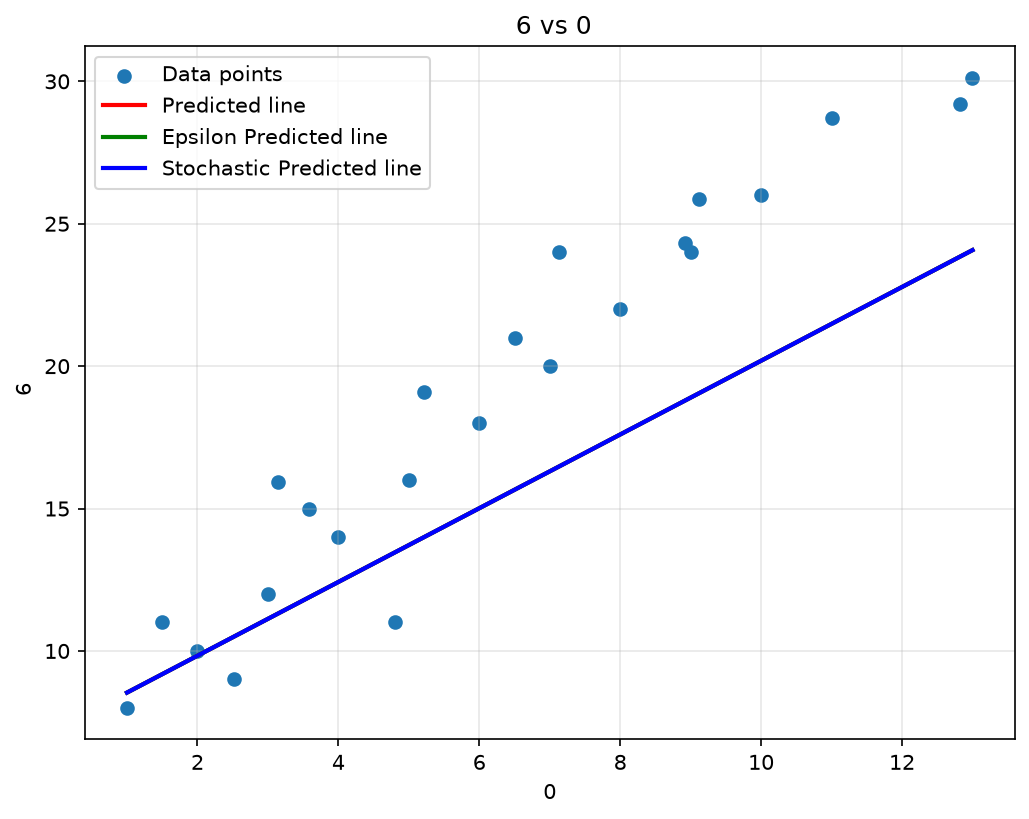
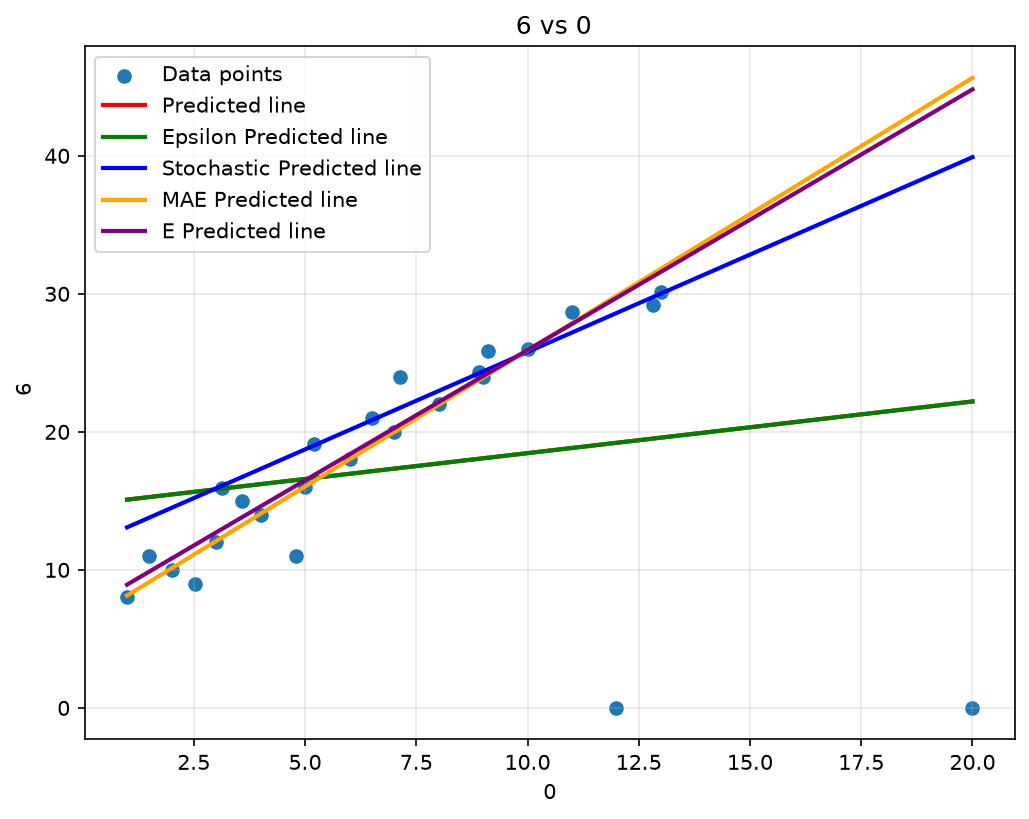
im so sorry this is so late

diff --git a/MachineLearning/e_descent.py b/MachineLearning/e_descent.py
@@ -1,0 +1,189 @@
+# import csv
+# import numpy as np
+
+# CSV_PATH = ".\\MachineLearning\\data.csv"
+# X_COLUMN = None
+# Y_COLUMN = None
+# LEARNING_RATE = 0.01
+# EPSILON = 1e-6
+# MAX_ITERATIONS = 2_000_000
+
+# CONST_C = 1e-6   # <-- the "c" in c - log(exp(-(y-yhat)^2) + c)
+
+# THETA_PATH = ".\\MachineLearning\\theta_e.npy"
+# COST_HISTORY_PATH = ".\\MachineLearning\\cost_history.npy"
+
+# # --- Load data ---
+# x_vals = []
+# y_vals = []
+
+# with open(CSV_PATH, 'r') as file:
+#     reader = csv.reader(file)
+#     header = next(reader)
+
+#     x_idx = 0 if X_COLUMN is None else (
+#         int(X_COLUMN) if X_COLUMN.isdigit() else header.index(X_COLUMN)
+#     )
+#     y_idx = 1 if Y_COLUMN is None else (
+#         int(Y_COLUMN) if Y_COLUMN.isdigit() else header.index(Y_COLUMN)
+#     )
+
+#     for row in reader:
+#         if not row:
+#             continue
+#         x_vals.append(float(row[x_idx]))
+#         y_vals.append(float(row[y_idx]))
+
+# x = np.array(x_vals)
+# y = np.array(y_vals)
+# n = len(x)
+# print("Total data points:", n)
+
+# # --- Gradient descent ---
+# theta = np.array([0.0, 0.0])
+# cost_history = []
+
+# iteration = 0
+# while iteration < MAX_ITERATIONS:
+#     predictions = theta[0] + theta[1] * x
+#     errors = y - predictions          # e = y - yhat
+#     exp_term = np.exp(-(errors ** 2)) # exp(-(y-yhat)^2)
+
+#     # Cost: c - log(exp(-(y-yhat)^2) + c), averaged over samples
+#     per_sample_cost = CONST_C - np.log(exp_term + CONST_C)
+#     cost = np.mean(per_sample_cost)
+#     cost_history.append(cost)
+
+#     # Gradient: dL/dtheta = -2*e*exp(-e^2) / (exp(-e^2) + c)
+#     common_factor = -2 * errors * exp_term / (exp_term + CONST_C)
+#     grad_intercept = np.mean(common_factor)
+#     grad_slope = np.mean(common_factor * x)
+#     gradient = np.array([grad_intercept, grad_slope])
+
+#     theta = theta - LEARNING_RATE * gradient
+
+#     if iteration % 100 == 0:
+#         print(f"Iteration {iteration}: Cost = {cost:.6f}, theta = {theta}, |grad| = {np.linalg.norm(gradient):.8f}")
+
+#     if np.linalg.norm(gradient) < EPSILON:
+#         print(f"\nConverged after {iteration} iterations (|grad| < {EPSILON}).")
+#         break
+
+#     iteration += 1
+# else:
+#     print(f"\nStopped after reaching MAX_ITERATIONS = {MAX_ITERATIONS} without full convergence.")
+
+# np.save(THETA_PATH, theta)
+# np.save(COST_HISTORY_PATH, np.array(cost_history))
+# print(f"Saved theta to {THETA_PATH}: intercept={theta[0]:.6f}, slope={theta[1]:.6f}")
+# print(f"Saved cost history to {COST_HISTORY_PATH} ({len(cost_history)} iterations)")
+
+# print("\nFinal parameters:")
+# print(f"Intercept: {theta[0]:.6f}")
+# print(f"Slope:     {theta[1]:.6f}")
+
+import csv
+import numpy as np
+
+CSV_PATH = ".\\MachineLearning\\data.csv"
+X_COLUMN = None
+Y_COLUMN = None
+LEARNING_RATE = 0.01
+EPSILON = 1e-6
+MAX_ITERATIONS = 1000
+
+CONST_C = 0.1   # <-- raised from 1e-6; keeps exp(-e^2)+c from being ~pure numerical zero
+
+THETA_PATH = ".\\MachineLearning\\theta_e.npy"
+COST_HISTORY_PATH = ".\\MachineLearning\\cost_history.npy"
+
+# --- Load data ---
+x_vals = []
+y_vals = []
+
+with open(CSV_PATH, 'r') as file:
+    reader = csv.reader(file)
+    header = next(reader)
+
+    x_idx = 0 if X_COLUMN is None else (
+        int(X_COLUMN) if X_COLUMN.isdigit() else header.index(X_COLUMN)
+    )
+    y_idx = 1 if Y_COLUMN is None else (
+        int(Y_COLUMN) if Y_COLUMN.isdigit() else header.index(Y_COLUMN)
+    )
+
+    for row in reader:
+        if not row:
+            continue
+        x_vals.append(float(row[x_idx]))
+        y_vals.append(float(row[y_idx]))
+
+x_raw = np.array(x_vals)
+y_raw = np.array(y_vals)
+n = len(x_raw)
+print("Total data points:", n)
+
+# --- Standardize x and y (critical fix: keeps initial errors O(1) so exp(-e^2) doesn't underflow) ---
+x_mean, x_std = x_raw.mean(), x_raw.std()
+y_mean, y_std = y_raw.mean(), y_raw.std()
+
+x = (x_raw - x_mean) / x_std
+y = (y_raw - y_mean) / y_std
+
+# --- Diagnostic: check initial error scale before training starts ---
+initial_errors = y - 0.0   # theta starts at [0,0], so predictions start at 0
+print(f"\n[Diagnostic] Initial (standardized) error range: min={initial_errors.min():.4f}, "
+      f"max={initial_errors.max():.4f}, mean|e|={np.mean(np.abs(initial_errors)):.4f}")
+print(f"[Diagnostic] exp(-e^2) at init: min={np.exp(-initial_errors**2).min():.6e}, "
+      f"max={np.exp(-initial_errors**2).max():.6e}\n")
+
+# --- Gradient descent (on standardized data) ---
+theta = np.array([0.0, 0.0])
+cost_history = []
+
+iteration = 0
+while iteration < MAX_ITERATIONS:
+    predictions = theta[0] + theta[1] * x
+    errors = y - predictions          # e = y - yhat
+    exp_term = np.exp(-(errors ** 2)) # exp(-(y-yhat)^2)
+
+    # Cost: c - log(exp(-(y-yhat)^2) + c), averaged over samples
+    per_sample_cost = CONST_C - np.log(exp_term + CONST_C)
+    cost = np.mean(per_sample_cost)
+    cost_history.append(cost)
+
+    # Gradient: dL/dtheta = -2*e*exp(-e^2) / (exp(-e^2) + c)
+    common_factor = -2 * errors * exp_term / (exp_term + CONST_C)
+    grad_intercept = np.mean(common_factor)
+    grad_slope = np.mean(common_factor * x)
+    gradient = np.array([grad_intercept, grad_slope])
+
+    theta = theta - LEARNING_RATE * gradient
+
+    if iteration % 100 == 0:
+        print(f"Iteration {iteration}: Cost = {cost:.6f}, theta(std) = {theta}, |grad| = {np.linalg.norm(gradient):.8f}")
+
+    if np.linalg.norm(gradient) < EPSILON:
+        print(f"\nConverged after {iteration} iterations (|grad| < {EPSILON}).")
+        break
+
+    iteration += 1
+else:
+    print(f"\nStopped after reaching MAX_ITERATIONS = {MAX_ITERATIONS} without full convergence.")
+
+# --- Convert theta back from standardized space to original (raw x, y) scale ---
+# In standardized space: y_std = theta0_std + theta1_std * x_std
+# where x_std = (x_raw - x_mean)/x_std_dev, y_std = (y_raw - y_mean)/y_std_dev
+# Solving back out:
+theta1_raw = theta[1] * (y_std / x_std)
+theta0_raw = y_mean + theta[0] * y_std - theta1_raw * x_mean
+theta_raw = np.array([theta0_raw, theta1_raw])
+
+np.save(THETA_PATH, theta_raw)
+np.save(COST_HISTORY_PATH, np.array(cost_history))
+print(f"\nSaved theta (original scale) to {THETA_PATH}: intercept={theta_raw[0]:.6f}, slope={theta_raw[1]:.6f}")
+print(f"Saved cost history to {COST_HISTORY_PATH} ({len(cost_history)} iterations)")
+
+print("\nFinal parameters (original scale):")
+print(f"Intercept: {theta_raw[0]:.6f}")
+print(f"Slope:     {theta_raw[1]:.6f}")

diff --git a/MachineLearning/logisticregression.py b/MachineLearning/logisticregression.py
@@ -1,0 +1,108 @@
+# from sklearn import datasets
+# from sklearn.model_selection import train_test_split
+# from sklearn.linear_model import LogisticRegression
+# from sklearn.metrics import accuracy_score, confusion_matrix, classification_report
+
+# # 1. Generate the data (your starter code)
+# x, y = datasets.make_blobs(n_samples=1000, centers=2, n_features=2, center_box=(0, 10))
+
+# # 2. Split into training and test sets
+# x_train, x_test, y_train, y_test = train_test_split(
+#     x, y, test_size=0.2, random_state=42
+# )
+
+# # 3. Create and train the logistic regression model
+# model = LogisticRegression()
+# model.fit(x_train, y_train)
+
+# # 4. Make predictions on the test set
+# y_pred = model.predict(x_test)
+
+# # 5. Evaluate the model
+# acc = accuracy_score(y_test, y_pred)
+# print(f"Accuracy: {acc:.3f}")
+# print(confusion_matrix(y_test, y_pred))
+# print(classification_report(y_test, y_pred))
+
+import numpy as np
+import matplotlib.pyplot as plt
+from sklearn import datasets
+from array import array
+ 
+def h(x,theta):
+    """
+    logistic regression hypothesis function
+    """
+    e=2.71828
+    return e**(np.dot(x,theta))/(1.+e**(np.dot(x,theta)))
+ 
+def lr_gd(a, x, y, ep=0.001, max_iter=1000, debug=True):
+    #if we are debugging, we'll collect the error at each iteration
+    if debug: err = array('f',[])
+   
+    ### Initialize the algorithm state ###
+    cvg = False
+    m = 0
+    m,n = x.shape
+    z = np.arange(m)
+    #intialize the parameter/weight vector
+    theta = np.random.random(n)
+   
+    #for each training example, compute the gradient
+    z = [(y[i]-h(x[i],theta))*x[i] for i in range(n)]
+ 
+    #update the parameters
+    theta = theta + a * sum(z)
+   
+    #compute the total error
+    pe = sum([(y[i]-h(x[i],theta))**2 for i in range(n)])
+   
+    ### Iterate until convergence or max iterations ###
+    for t in range(max_iter):
+        z = [(y[i]-h(x[i],theta))*x[i] for i in range(n)]
+        theta = theta + a*sum(z)
+        e = sum([(y[i]-h(x[i],theta))**2 for i in range(n)])
+        if debug: err.append(e)
+        if abs(pe-e) <= ep:
+            print ('*** Converged, iterations: ', m, ' ***')
+            cvg = True
+        pe = e
+        m+=1
+        if m == max_iter:
+            print ('*** Max interactions exceeded ***')
+            break
+    if debug:
+        return (t,err)
+    else:
+        return (t)
+ 
+if __name__ == '__main__':
+    #learning rate
+    a = 0.0001
+    #generate linear seperate data
+    X, y = datasets.make_blobs(n_samples=1000, centers=2, n_features=2, center_box=(0, 10))
+    #seperate training set and test set
+    xtrain = X[0:799]
+    ytrain = y[0:799]
+    xtest = X[800:999]
+    ytest = y[800:999]
+    #learning the model
+    theta,err = lr_gd(a,xtrain,ytrain)
+    print('GD:',theta)
+    #measure the total error, print and plot results
+    results = sum([(ytest[i]-np.dot(theta,xtest[i]))**2 for i in range(xtest.shape[0])])
+    print ('Total BGD error: ', results)
+   
+    #plot the error
+    plt.plot(err, linewidth=2)
+    plt.xlabel('Iteration, i', fontsize=24)
+    plt.ylabel(r'J($\theta$)', fontsize=24)
+    plt.figure()
+    #plot predictions
+    plt.plot(xtest, [np.dot(theta,i) for i in xtest], 'b-', linewidth=2, label='Model')
+    #plot data
+    plt.figure()
+    plt.plot(X[:, 0][y == 0], X[:, 1][y == 0], 'g^')
+    plt.plot(X[:, 0][y == 1], X[:, 1][y == 1], 'bs')
+    plt.show()
+

diff --git a/MachineLearning/plotter.py b/MachineLearning/plotter.py
@@ -125,6 +125,10 @@ import numpy as np
 # ==== EDIT THESE ====
 CSV_PATH = ".\\MachineLearning\\data.csv"
 THETA_PATH = ".\\MachineLearning\\theta.npy"
+
+
+
+
 X_COLUMN = None
 Y_COLUMN = None
 OUTPUT_PATH = ".\\MachineLearning\\plot.png"
@@ -182,14 +186,20 @@ def main():
 
     # --- Load trained parameters BEFORE building the figure ---
     try:
-        theta = np.load(THETA_PATH)
+        theta = np.load(".\\MachineLearning\\theta.npy")
         intercept, slope = theta[0], theta[1]
         
-        theta_epsilon = np.load(THETA_PATH)
+        theta_epsilon = np.load(".\\MachineLearning\\theta_epsilon.npy")
         intercept_epsilon, slope_epsilon = theta_epsilon[0], theta_epsilon[1]
 
-        theta_stochastic = np.load(THETA_PATH)
+        theta_stochastic = np.load(".\\MachineLearning\\theta_stochastic.npy")
         intercept_stochastic, slope_stochastic = theta_stochastic[0], theta_stochastic[1]
+
+        theta_mae = np.load(".\\MachineLearning\\theta_mae.npy")
+        intercept_mae, slope_mae = theta_mae[0], theta_mae[1]
+
+        theta_e = np.load(".\\MachineLearning\\theta_e.npy")
+        intercept_e, slope_e = theta_e[0], theta_e[1]
                 
     except FileNotFoundError:
         print(f"Error: {THETA_PATH} not found. Run the training script first.", file=sys.stderr)
@@ -209,10 +219,18 @@ def main():
     epsilon_line_x = np.linspace(x_min, x_max, 100)
     epsilon_line_y = intercept_epsilon + slope_epsilon * epsilon_line_x
     plt.plot(epsilon_line_x, epsilon_line_y, color="green", linewidth=2, label="Epsilon Predicted line")
-    
+
     stochastic_line_x = np.linspace(x_min, x_max, 100)
     stochastic_line_y = intercept_stochastic + slope_stochastic * stochastic_line_x
     plt.plot(stochastic_line_x, stochastic_line_y, color="blue", linewidth=2, label="Stochastic Predicted line")
+
+    mae_line_x = np.linspace(x_min, x_max, 100)
+    mae_line_y = intercept_mae + slope_mae * mae_line_x
+    plt.plot(mae_line_x, mae_line_y, color="orange", linewidth=2, label="MAE Predicted line")
+
+    e_line_x = np.linspace(x_min, x_max, 100)
+    e_line_y = intercept_e + slope_e * e_line_x
+    plt.plot(e_line_x, e_line_y, color="purple", linewidth=2, label="E Predicted line")
 
     plt.xlabel(x_label)
     plt.ylabel(y_label)

diff --git a/MachineLearning/gradientdescent_stochastic.py b/MachineLearning/gradientdescent_stochastic.py
@@ -6,7 +6,7 @@ X_COLUMN = None
 Y_COLUMN = None
 LEARNING_RATE = 0.01
 EPSILON = 1e-6              # stop when epoch-average cost stops improving by more than this
-MAX_EPOCHS = 100         # safety cap: one epoch = one full pass through the data
+MAX_EPOCHS = 1000         # safety cap: one epoch = one full pass through the data
 
 THETA_PATH = ".\\MachineLearning\\theta_stochastic.npy"
 COST_HISTORY_PATH = ".\\MachineLearning\\cost_history.npy"